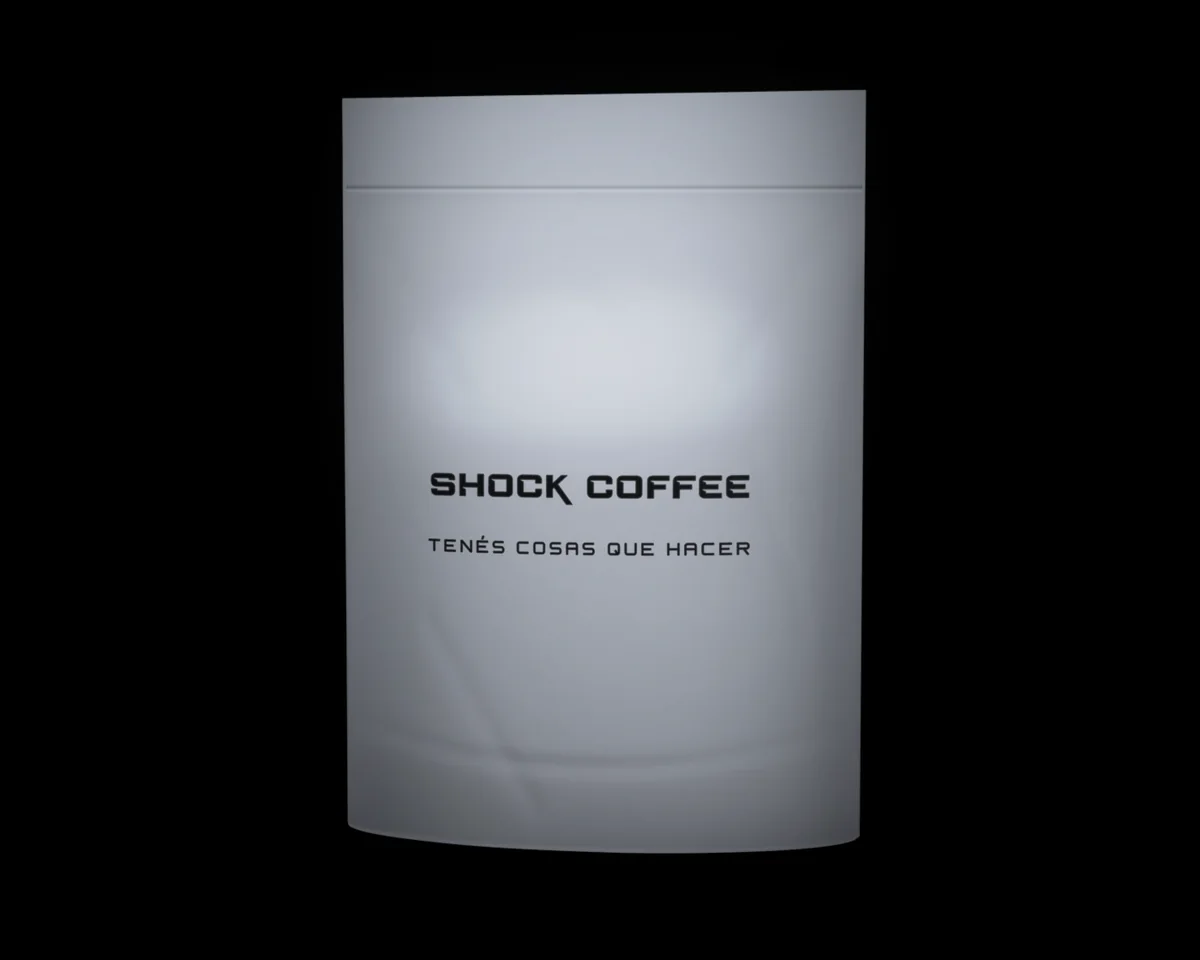
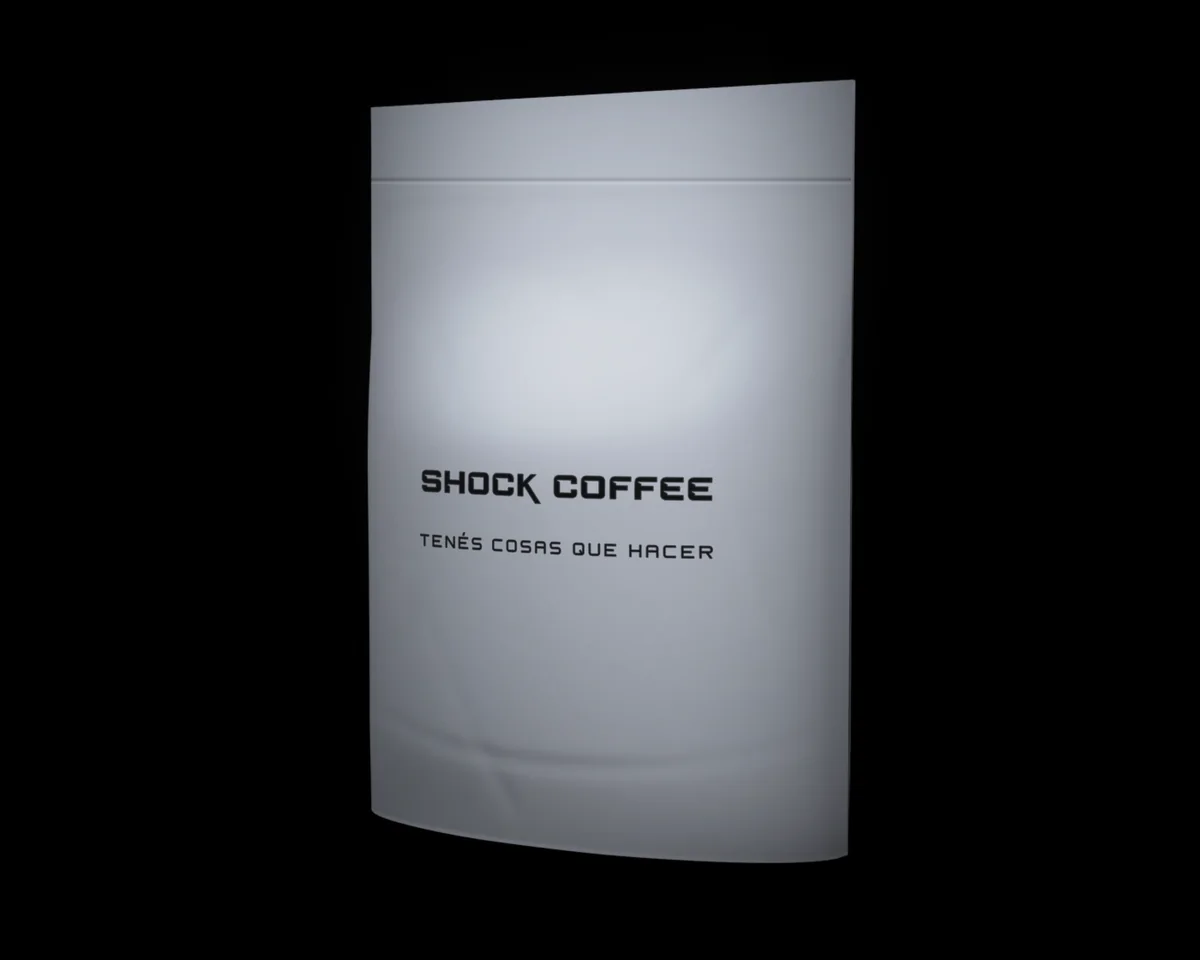
Hero: paquete en ángulo, rayo X desde el inicio
Claude-Session: https://claude.ai/code/session_01RSMAm78DGFtYrLydXex8r7

diff --git a/index.html b/index.html
@@ -538,7 +538,7 @@ footer{padding:26px 0 40px;text-align:center;font:400 11px/1.8 var(--mono);lette
 
   /* hero: escáner en vivo. Dos imágenes (paquete y rayos X) cruzadas por una línea de luz, a la frecuencia de la pantalla */
   (function(){
-    const cv=$('cvHero'),ctx=cv.getContext('2d'),B=/*HBOX*/{"x0": 0.285, "x1": 0.7214, "y0": 0.0929, "y1": 0.8884}/*HBOX*/;
+    const cv=$('cvHero'),ctx=cv.getContext('2d'),B=/*HBOX*/{"x0": 0.3064, "x1": 0.7121, "y0": 0.0821, "y1": 0.8982}/*HBOX*/;
     const P=new Image(),X=new Image();P.decoding=X.decoding='async';
     let beam=null,started=null,lastT=0;const T=6000;
     const ss=t=>{t=Math.max(0,Math.min(1,t));return t*t*(3-2*t)};
